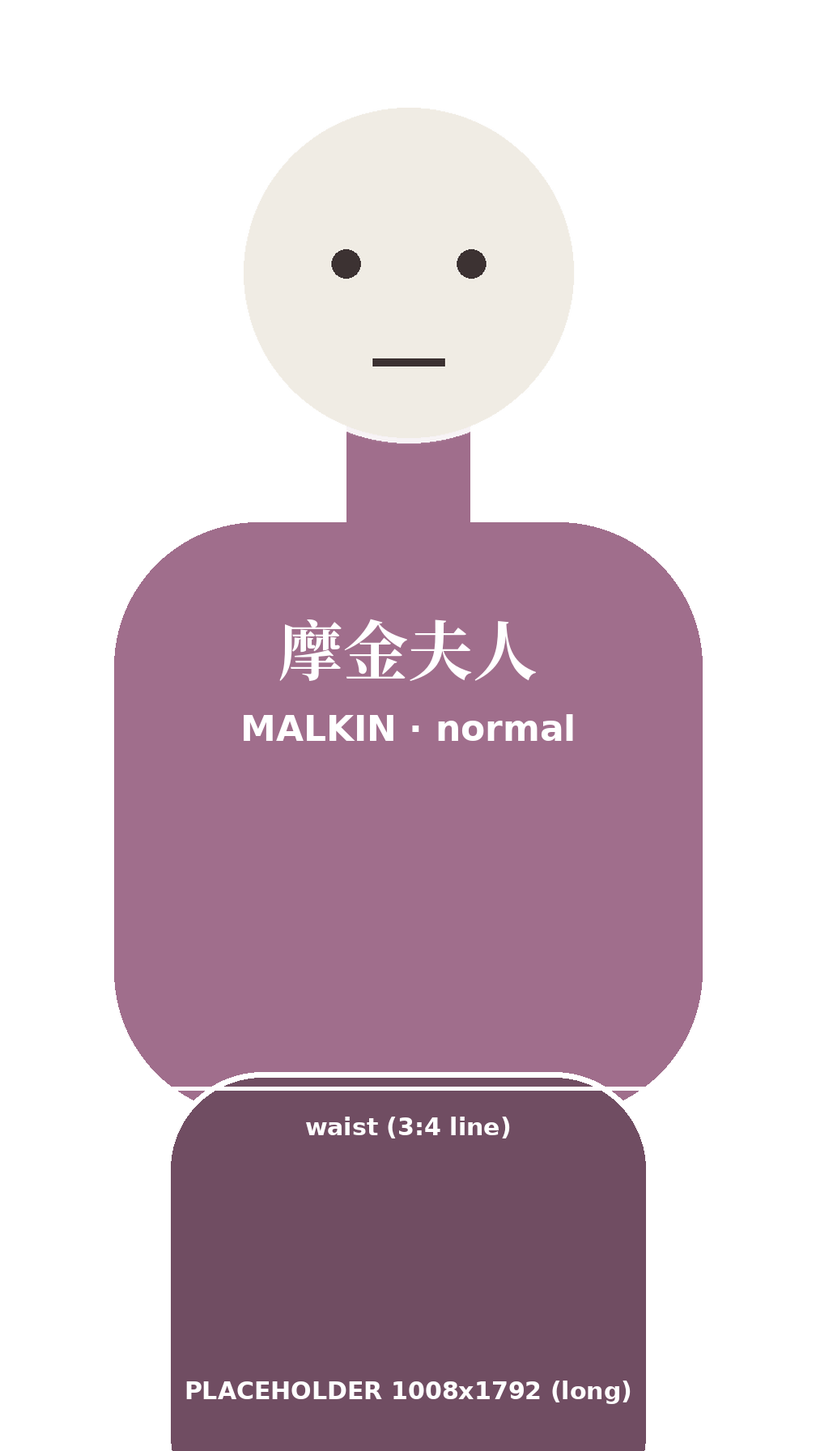
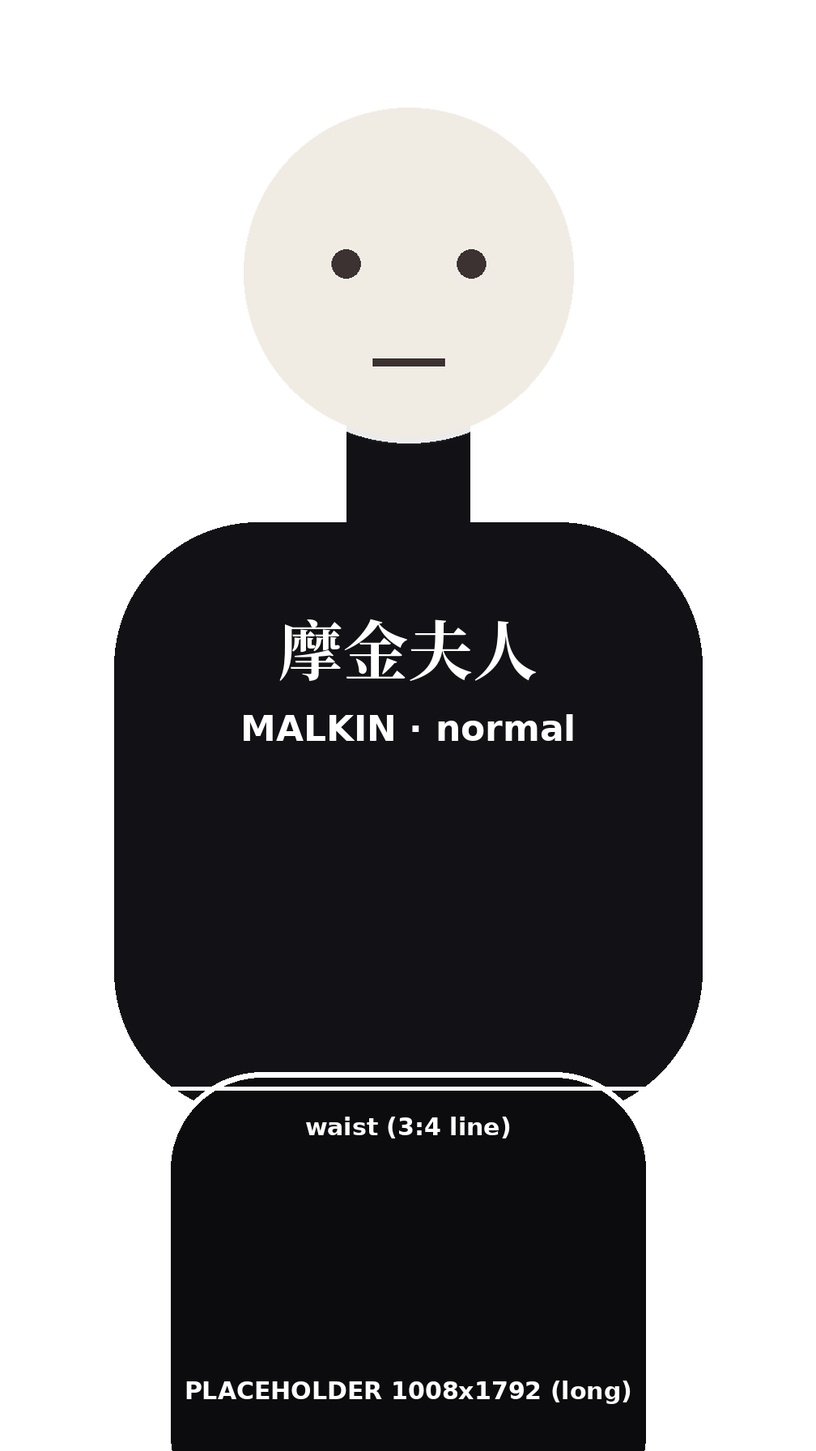
v0.4.1：立繪規劃改版（便服 casual、冬裝 winter、馬份取消黑袍、飛七立繪、黑影角色、規格 v2.0）與第一～六章小修
Claude-Session: https://claude.ai/code/session_01PBz3XvQT9DB7un91vn9J3W

diff --git a/story/story.js b/story/story.js
@@ -22,33 +22,34 @@ export const years = ["一年級", "二年級", "三年級", "四年級"];
 // 角色。id = 立繪資料夾名（assets/chara/<id>/<表情>.webp，規格見 docs/sprite_spec.md）與頭像檔名（assets/avatar/<id>.png）
 export const characters = {
   // outfits：有這一欄的角色立繪放在 assets/chara/<角色>/<服裝>/<表情>.webp，劇本用 @outfit 切換（跨場景、跨章節沿用）；outfit：預設服裝
-  draconia: { name: "馬份",     faces: ["normal", "happy", "sad", "angry", "disdain", "shy", "surprised", "smug", "panic", "cute", "cry"], outfits: ["noble", "school", "slytherin"], outfit: "noble" },   // noble 貴族服、school 黑袍（分院前）、slytherin 史萊哲林校服
-  ron:      { name: "榮恩",     faces: ["normal", "happy", "sad", "angry", "surprised", "disdain", "shy", "panic"], outfits: ["school", "gryffindor"], outfit: "school" },   // school 黑袍（分院前）、gryffindor 葛來分多校服
-  hermione: { name: "妙麗",     faces: ["normal", "happy", "sad", "angry", "shy", "surprised", "cry", "panic"], outfits: ["school", "gryffindor"], outfit: "school" },   // school 黑袍（分院前）、gryffindor 葛來分多校服
+  draconia: { name: "馬份",     faces: ["normal", "happy", "sad", "angry", "disdain", "shy", "surprised", "smug", "panic", "cute", "cry"], outfits: ["noble", "slytherin", "winter"], outfit: "noble" },   // noble 貴族服（入學前到分院前）、slytherin 史萊哲林校服（分院後）、winter 冬裝（史萊哲林校服＋頸巾，表情同校服）
+  ron:      { name: "榮恩",     faces: ["normal", "happy", "sad", "angry", "surprised", "disdain", "shy", "panic"], outfits: ["casual", "gryffindor", "winter"], outfit: "casual" },   // casual 便服（分院前）、gryffindor 葛來分多校服、winter 冬裝（校服＋頸巾）
+  hermione: { name: "妙麗",     faces: ["normal", "happy", "sad", "angry", "shy", "surprised", "cry", "panic"], outfits: ["casual", "gryffindor", "winter"], outfit: "casual" },   // casual 便服（分院前）、gryffindor 葛來分多校服、winter 冬裝（校服＋頸巾）
   hagrid:   { name: "海格",     faces: ["normal", "happy", "sad"], scale: 1 },   // scale：立繪縮放倍率（預設 1），高大的角色往上長（原 1.15，頭會被裁切，暫時改回 1）
   molly:    { name: "衛斯理太太", faces: ["normal"] },
-  ollivander: { name: "奧利凡德", faces: ["normal"] },
-  malkin:   { name: "摩金夫人", faces: ["normal"] },
-  crabbe:   { name: "克拉",     faces: ["normal"] },
-  goyle:    { name: "高爾",     faces: ["normal"] },
+  ollivander: { name: "奧利凡德", faces: ["normal"] },   // 黑影立繪
+  malkin:   { name: "摩金夫人", faces: ["normal"] },   // 黑影立繪
+  crabbe:   { name: "克拉",     faces: ["normal"], outfits: ["casual", "slytherin"], outfit: "casual" },   // casual 便服（分院前）、slytherin 史萊哲林校服
+  goyle:    { name: "高爾",     faces: ["normal"], outfits: ["casual", "slytherin"], outfit: "casual" },
   mcgonagall:  { name: "麥教授",   faces: ["normal"] },
   sorting_hat: { name: "分類帽",   faces: ["normal"] },
-  neville:     { name: "奈威",     faces: ["normal"] },
+  neville:     { name: "奈威",     faces: ["normal"], outfits: ["casual", "gryffindor"], outfit: "casual" },
   fred:        { name: "弗雷",     faces: ["normal"] },
   george:      { name: "喬治",     faces: ["normal"] },
   dumbledore:  { name: "鄧不利多", faces: ["normal"] },
   percy:       { name: "派西",     faces: ["normal"] },
   pansy:       { name: "潘西",     faces: ["normal", "happy", "angry", "smug", "disdain", "surprised"] },
   snape:       { name: "石內卜",   faces: ["normal", "angry"] },
-  hooch:       { name: "胡奇夫人", faces: ["normal"] },
+  hooch:       { name: "胡奇夫人", faces: ["normal"] },   // 黑影立繪
   wood:        { name: "木透",     faces: ["normal"] },
   flitwick:    { name: "孚立維教授", faces: ["normal"] },   // 黑影立繪
   quirrell:    { name: "奎若教授",   faces: ["normal"] },
+  filch:       { name: "飛七",     faces: ["normal"] },
   unknown:     { name: "？？？",     faces: ["normal"] }   // 刻意隱藏身分的說話者共用：無形黑影立繪（說話者寫 #？？？，用 @show unknown 上台）；頭像 assets/avatar/unknown.png
 };
 
 // 沒有立繪、但會說話的人（#名字 不會被當成打錯字）。值 = 頭像檔名
-export const speakers = { "哈利": "harry", "德思禮姨丈": "unknown", "飛七": "unknown" };
+export const speakers = { "哈利": "harry", "德思禮姨丈": "unknown" };
 
 // 圖鑑（圖檔放 assets/cg/<id>.webp，沒有圖時顯示佔位）
 // pos：CG 裁切焦點（"水平% 垂直%"，預設 "50% 50%"）。CG 是方圖，橫向會裁上下、直向會裁左右，焦點決定保留哪一塊；由立繪聊天室量好後填入

diff --git a/tools/make_placeholders.py b/tools/make_placeholders.py
@@ -30,7 +30,9 @@ COLORS = {"draconia": (120, 140, 190), "ron": (200, 110, 70), "hermione": (150, 
           "mcgonagall": (60, 110, 80), "sorting_hat": (110, 90, 60), "neville": (150, 120, 90), "fred": (200, 100, 60), "george": (190, 95, 65), "dumbledore": (140, 120, 170), "percy": (180, 105, 70), "pansy": (90, 130, 100), "snape": (40, 40, 48),
           "hooch": (150, 140, 100), "wood": (170, 80, 60),
           "flitwick": (18, 18, 22), "quirrell": (110, 70, 140),
-          "unknown": (10, 10, 12)}   # unknown ？？？ 共用黑影（佔位用近黑色）   # flitwick 黑影立繪（佔位用近黑色）
+          "unknown": (10, 10, 12), "filch": (100, 110, 90)}
+# 黑影立繪（佔位用近黑色）：flitwick、unknown（？？？共用）、malkin、ollivander、hooch
+for _k in ("malkin", "ollivander", "hooch"): COLORS[_k] = (18, 18, 22)
 
 def face_marks(d, face, ink):
     # 用簡單的眉、眼、嘴區分表情（佔位用，方便測試換表情）
@@ -77,11 +79,13 @@ def face_marks(d, face, ink):
         for s in (-1, 1): d.ellipse([CX + s * ex - er, ey - er, CX + s * ex + er, ey + er], fill=ink)
         d.line([CX - 40, HY + 100, CX + 40, HY + 100], fill=ink, width=9)
 
-OUTFIT_LABEL = {"noble": "貴族服", "school": "黑袍", "slytherin": "史萊哲林", "gryffindor": "葛來分多"}
+OUTFIT_LABEL = {"noble": "貴族服", "school": "黑袍", "casual": "便服", "slytherin": "史萊哲林", "gryffindor": "葛來分多", "winter": "冬裝"}
+WINTER_HOUSE = {"draconia": "slytherin"}   # 冬裝＝學院校服＋頸巾；沒列的角色是葛來分多
 OUTFIT_COLOR = {"school": (38, 38, 46), "slytherin": (34, 70, 52), "gryffindor": (110, 34, 34)}   # 黑袍、史萊哲林綠、葛來分多紅
 def chara(cid, name, face, color, outfit=None):
     p = os.path.join(ROOT, "chara", cid, *( [outfit] if outfit else [] ), face + ".webp")
     if outfit in OUTFIT_COLOR: color = OUTFIT_COLOR[outfit]
+    if outfit == "winter": color = OUTFIT_COLOR[WINTER_HOUSE.get(cid, "gryffindor")]
     if os.path.exists(p) and not REDO: return False
     os.makedirs(os.path.dirname(p), exist_ok=True)
     im = Image.new("RGBA", (W, H), (0, 0, 0, 0)); d = ImageDraw.Draw(im)
@@ -94,6 +98,9 @@ def chara(cid, name, face, color, outfit=None):
     d.line([CX - 300, WAIST, CX + 300, WAIST], fill=edge, width=5)
     # 脖子
     d.rectangle([CX - 76, chin - 50, CX + 76, chin + 126], fill=body)
+    if outfit == "winter":   # 頸巾：學院兩色條紋
+        c2 = (200, 200, 205, 255) if WINTER_HOUSE.get(cid) == "slytherin" else (210, 170, 60, 255)
+        for i in range(6): d.rectangle([CX - 160, chin + 20 + i * 24, CX + 160, chin + 44 + i * 24], fill=(body if i % 2 == 0 else c2))
     # 頭：先用基準尺寸畫好（含表情），再放大到頭高 HEAD_H 貼上
     hd = Image.new("RGBA", (W, H), (0, 0, 0, 0)); hdd = ImageDraw.Draw(hd)
     hdd.ellipse([CX - HEAD_R, HEAD_TOP, CX + HEAD_R, HEAD_TOP + 2 * HEAD_R], fill=(240, 236, 228, 255), outline=edge, width=6)

diff --git a/tools/make_avatars.py b/tools/make_avatars.py
@@ -14,7 +14,7 @@ def base(c1, c2):
 def ring(im):
     d = ImageDraw.Draw(im); d.ellipse([4,4,S*2-5,S*2-5], outline=(201,162,74,255), width=10)
 def save(im, name): im.resize((S,S), Image.LANCZOS).save(os.path.join(OUT, name+".png"))
-for name, ch, c1, c2 in (("draconia","D",(188,196,214),(96,106,138)), ("hagrid","海",(150,110,70),(80,52,30)), ("malkin","摩",(168,120,150),(96,60,90)), ("ron","榮",(214,128,84),(128,56,36)), ("molly","衛",(206,150,110),(130,84,60)), ("hermione","妙",(176,128,92),(100,64,40)), ("ollivander","奧",(150,150,160),(70,70,84)), ("crabbe","克",(130,150,130),(60,78,60)), ("goyle","高",(150,130,112),(80,64,52)), ("mcgonagall","麥",(110,160,120),(40,80,56)), ("sorting_hat","帽",(160,130,90),(84,64,40)), ("neville","奈",(176,150,120),(96,76,56)), ("fred","弗",(220,120,80),(130,56,34)), ("george","喬",(214,116,84),(124,54,36)), ("dumbledore","鄧",(170,150,200),(84,70,120)), ("percy","派",(206,130,90),(120,64,40)), ("pansy","潘",(120,170,130),(50,90,60)), ("snape","石",(90,90,100),(24,24,30)), ("hooch","胡",(170,160,120),(90,80,50)), ("wood","木",(200,110,80),(110,50,36)), ("flitwick","孚",(70,70,80),(14,14,18)), ("quirrell","奎",(150,110,180),(70,40,100))):
+for name, ch, c1, c2 in (("draconia","D",(188,196,214),(96,106,138)), ("hagrid","海",(150,110,70),(80,52,30)), ("malkin","摩",(168,120,150),(96,60,90)), ("ron","榮",(214,128,84),(128,56,36)), ("molly","衛",(206,150,110),(130,84,60)), ("hermione","妙",(176,128,92),(100,64,40)), ("ollivander","奧",(150,150,160),(70,70,84)), ("crabbe","克",(130,150,130),(60,78,60)), ("goyle","高",(150,130,112),(80,64,52)), ("mcgonagall","麥",(110,160,120),(40,80,56)), ("sorting_hat","帽",(160,130,90),(84,64,40)), ("neville","奈",(176,150,120),(96,76,56)), ("fred","弗",(220,120,80),(130,56,34)), ("george","喬",(214,116,84),(124,54,36)), ("dumbledore","鄧",(170,150,200),(84,70,120)), ("percy","派",(206,130,90),(120,64,40)), ("pansy","潘",(120,170,130),(50,90,60)), ("snape","石",(90,90,100),(24,24,30)), ("hooch","胡",(170,160,120),(90,80,50)), ("wood","木",(200,110,80),(110,50,36)), ("flitwick","孚",(70,70,80),(14,14,18)), ("quirrell","奎",(150,110,180),(70,40,100)), ("filch","飛",(150,165,140),(70,82,62))):
     if os.path.exists(os.path.join(OUT, name + ".png")): continue      # 已有的頭像（含你換上的正式圖）不覆蓋
     im = base(c1, c2); d = ImageDraw.Draw(im)
     f = ImageFont.truetype(FONT, 300, index=3); b = d.textbbox((0,0), ch, font=f)

diff --git a/docs/characters.md b/docs/characters.md
@@ -15,21 +15,23 @@
 
 | 角色 | 引擎代號 | 表情 |
 |---|---|---|
-| 馬份 | draconia | normal、happy、sad、angry、disdain、shy、surprised、smug、panic、cute、cry（貴族服、黑袍、史萊哲林校服三套，共 33 張；原本的 angry 圖改為 disdain，新的 angry 圖待補） |
-| 榮恩 | ron | normal、happy、sad、angry、surprised、disdain、shy、panic（黑袍、葛來分多校服兩套，共 16 張；disdain、shy、panic 第五章新增，待補圖） |
-| 妙麗 | hermione | normal、happy、sad、angry、shy、surprised、cry、panic（黑袍、葛來分多校服兩套，共 16 張；cry、panic 第六章新增，待補圖） |
+| 馬份 | draconia | normal、happy、sad、angry、disdain、shy、surprised、smug、panic、cute、cry（貴族服、史萊哲林校服、冬裝三套，共 33 張） |
+| 榮恩 | ron | normal、happy、sad、angry、surprised、disdain、shy、panic（便服、葛來分多校服、冬裝三套，共 24 張） |
+| 妙麗 | hermione | normal、happy、sad、angry、shy、surprised、cry、panic（便服、葛來分多校服、冬裝三套，共 24 張） |
 | 海格 | hagrid | normal、happy、sad |
 | 衛斯理太太 | molly | normal |
-| 奧利凡德 | ollivander | normal |
-| 摩金夫人 | malkin | normal |
-| 克拉 | crabbe | normal |
-| 高爾 | goyle | normal |
+| 奧利凡德 | ollivander | normal（黑影立繪） |
+| 摩金夫人 | malkin | normal（黑影立繪） |
+| 克拉 | crabbe | normal（便服、史萊哲林校服兩套） |
+| 高爾 | goyle | normal（便服、史萊哲林校服兩套） |
 | 潘西 | pansy | normal、happy、angry、smug、disdain、surprised（disdain、surprised 第四、五章新增，待補圖） |
 | 石內卜 | snape | normal、angry |
-| 胡奇夫人 | hooch | normal |
+| 胡奇夫人 | hooch | normal（黑影立繪） |
 | 孚立維教授 | flitwick | normal（黑影立繪） |
 | 奎若教授 | quirrell | normal |
 | 木透 | wood | normal |
+| 奈威 | neville | normal（便服、葛來分多校服兩套） |
+| 飛七 | filch | normal |
 | ？？？ | unknown | normal（無形黑影立繪，所有刻意隱藏身分的說話者共用） |
 | 哈利 | （無立繪） | 第一人稱，只有對話紀錄頭像 |
 
@@ -56,11 +58,11 @@
 - **身份**：一年級新生，純血馬份家獨生女。父親魯休斯，母親水仙。學院：史萊哲林（第二章分院）。
 - **外觀**：淺金色長髮（劇本一律寫「淺金色」）；灰色眼睛，形容為「像冬天結冰的湖面」；膚色白皙；臉型尖細；身材纖細；常抬著下巴；手指細長，指甲修得整齊。
   - 生圖描述（英文）：*11-year-old girl, long pale blonde hair, cold grey eyes, pale skin, sharp delicate face, slender, proud posture with chin raised, anime visual novel style*【髮飾待定】
-- **服裝**（立繪分三套，每套都有 10 個表情）：
-  - **貴族服**（noble）：入學前的便服。第一章斜角巷全程穿這套。款式【待定】。生圖時在描述後加：*elegant aristocratic dress, dark green and silver*【顏色待定】
-  - **黑袍**（school）：霍格華茲黑袍，分院前沒有學院徽章，但她自己戴純綠領帶和銀蛇領帶夾。第一章列車開始到第二章分院前穿這套。
+- **服裝**（立繪分三套，每套 11 個表情）：
+  - **貴族服**（noble）：入學前的便服。第一章全程（斜角巷、車站、列車、活米村）到第二章分院前都穿這套，分院後才換校服。款式【待定】。生圖時在描述後加：*elegant aristocratic dress, dark green and silver*【顏色待定】
   - **史萊哲林校服**（slytherin）：分院後換穿，綠色內襯、綠銀斜紋領帶、學院徽章。
-  - 圖檔路徑：`assets/chara/draconia/<服裝>/<表情>.webp`；劇本用 `@outfit draconia noble`／`school`／`slytherin` 切換
+  - **冬裝**（winter）：史萊哲林校服＋綠銀頸巾、黑色皮手套。冬天場景使用（第七章起）。
+  - 圖檔路徑：`assets/chara/draconia/<服裝>/<表情>.webp`；劇本用 `@outfit draconia noble`／`slytherin`／`winter` 切換
 - **性格**：以原著跩哥為底，調整成傲嬌。高傲、看不起「低等」的人，嘴上刻薄，心裡在意。被說中心事或被救時會結巴（「你、你……」「誰、誰要你……」），死不道謝。一年級定位是「口是心非的對手」，隨劇情逐漸軟化。
 - **說話習慣**：叫哈利「波特」；常用「哼」；叫榮恩「衛斯理」或帶貶意的稱呼。
 - **隨從**：克拉、高爾。
@@ -77,18 +79,26 @@
 
 ### 榮恩．衛斯理（ron）
 - **身份**：一年級新生，衛斯理家么兒（男生中最小）。
-- **外觀**：紅髮、雀斑、藍眼、個子高瘦、長鼻子；袍子是舊的，外套打過補丁。
+- **外觀**：紅髮、雀斑、藍眼、個子高瘦、長鼻子。整體很不羈：領口敞開、恤衫下襬外露、常常雙手插袋。兩套服裝都是舊袍，打過補丁。立繪的鼻子是乾淨的（不畫污漬）。
   - 生圖描述：*11-year-old boy, red hair, freckles, blue eyes, tall and lanky, long nose, worn hand-me-down robes*
-- **服裝**：黑袍（school，分院前）、葛來分多校服（gryffindor，第二章分院後換上）。劇本用 `@outfit ron gryffindor` 切換。
+- **服裝**：
+  - **便服**（casual，分院前）：衛斯理太太織的棕色背心，沒打領帶。
+  - **葛來分多校服**（gryffindor，第二章分院後換上）：紅金條紋的灰背心，領帶打得鬆鬆垮垮。
+  - **冬裝**（winter）：葛來分多校服＋紅金頸巾。冬天場景使用。
+  - 劇本用 `@outfit ron casual`／`gryffindor`／`winter` 切換。
 - **性格**：直率、愛吃、自卑家裡窮，被嘲笑時耳朵會變紅。
 - **表情補充**：disdain 用在瞧不起馬份、對哈利的決定翻白眼時；shy 用在出糗、難為情（耳朵變紅）時；panic 用在真的嚇到時（第五章被三頭犬追）。
 - **已確定的設定**：第一章選擇 6 選 A（`f.c1_hand=1`）時，哈利說只是不想跟她起衝突，榮恩悶悶不樂了一陣，不到十分鐘又湊過來聊天；選 B 時榮恩道謝，抱怨她沒禮貌；選 C 時榮恩稱讚哈利「太帥了」。選擇 7 若坐上馬份的船，榮恩會嘀咕一句，被妙麗推上另一條船。
 
 ### 妙麗．格蘭傑（hermione）
 - **身份**：一年級新生，麻瓜出身。
-- **外觀**：蓬鬆的棕色長髮、棕色眼睛、門牙略大（原著設定，是否保留【待定】）。
+- **外觀**：蓬鬆但整齊的棕色長髮、棕色眼睛、門牙略大（原著設定，是否保留【待定】）。端莊、有書卷味，立繪常抱著兩本書。
   - 生圖描述：*11-year-old girl, very bushy brown hair, brown eyes, bright and earnest expression, Hogwarts robes*
-- **服裝**：黑袍（school，分院前）、葛來分多校服（gryffindor，第二章分院後換上）。劇本用 `@outfit hermione gryffindor` 切換。
+- **服裝**：
+  - **便服**（casual，分院前）：灰背心。
+  - **葛來分多校服**（gryffindor，第二章分院後換上）：紅金條紋的灰背心。
+  - **冬裝**（winter）：葛來分多校服＋紅金頸巾。冬天場景使用。
+  - 劇本用 `@outfit hermione casual`／`gryffindor`／`winter` 切換。
 - **性格**：聰明、認真、愛說教、讀過很多書；一開始有點不討喜，其實熱心。
 - **表情補充**：cry 用在被榮恩的話傷到、哭著跑走時（第六章）；panic 用在被山怪逼到牆角時。
 - **已確定的設定**：第一章在車廂幫奈威找蟾蜍（`f.c1_toad`）。第六章山怪事件後成為哈利、榮恩的朋友；路線 A 被馬份保護，向她道謝，但明說不認同純血主義。
@@ -107,19 +117,19 @@
 - 外觀：矮胖、紅髮、慈祥。在國王十字車站教哈利穿過柱子。
 
 ### 奧利凡德（ollivander）
-- 魔杖店老闆。年老，有一雙蒼白的銀色眼睛，白髮稀疏，說話慢。口頭禪是「有趣」「奇妙」。
+- 魔杖店老闆。年老，有一雙蒼白的銀色眼睛，白髮稀疏，說話慢。口頭禪是「有趣」「奇妙」。**立繪是黑影**（只有輪廓的剪影）。
 
 ### 摩金夫人（malkin）
-- 長袍店老闆娘。矮胖，笑容可掬，穿淡紫色衣服。叫客人「親愛的」。
+- 長袍店老闆娘。矮胖，笑容可掬，穿淡紫色衣服。叫客人「親愛的」。**立繪是黑影**（只有輪廓的剪影）。
 
 ### 克拉（crabbe）、高爾（goyle）
 - **本作改為女生**，沿用姓氏，不另取名字。體型**不寫壯碩**。
 - 馬份的隨從，兩家從祖父那一輩就認識。話極少，大多只回「嗯」。
-- 克拉：黑髮，稍微過肩，髮尾微捲。高爾：黑髮中分，總是在吃東西（第一章在船上啃蛋糕）。立繪只有 normal，穿黑袍。
+- 克拉：黑髮，稍微過肩，髮尾微捲。高爾：黑髮中分，總是在吃東西（第一章在船上啃蛋糕）。立繪只有 normal，兩套服裝：便服（casual，分院前）、史萊哲林校服（slytherin，分院後）。劇本用 `@outfit crabbe slytherin`／`@outfit goyle slytherin` 切換。
 - 後續影響：二年級喝變身水變成克拉和高爾的情節，需要另外設計。
 
 ### 潘西．帕金森（pansy）
-- 史萊哲林一年級女生，馬份的朋友。短髮、圓臉，笑起來眼睛瞇成一條線。
+- 史萊哲林一年級女生，馬份的朋友。及肩的深褐色直髮、齊瀏海、圓臉，笑起來眼睛瞇成一條線。
 - 叫馬份「妮亞」（朋友裡只有她這樣叫）。愛調侃馬份和哈利的互動，也會嘲笑葛來分多。
 - 表情 normal、happy、angry、smug、disdain、surprised：登場時 normal，調侃人時換 smug；disdain 是冷眼旁觀、意味深長地打量人（第五章早餐）；surprised 是愣住（第四章看見馬份沒在笑）。第三章初登場。
 - **暗線**：第四章偷聽到午夜決鬥，第五章向飛七告密（之後章節揭曉）。表面是馬份的朋友，覺得馬份「跟波特走得太近」。
@@ -130,7 +140,7 @@
 - 主線角色，表情 normal、angry：平常 normal，刁難、責罵哈利時用 angry。
 
 ### 胡奇夫人（hooch）
-- 飛行課老師。灰色短髮，一雙像老鷹一樣的黃眼睛。說話簡短、命令式。第四章初登場，立繪只有 normal。
+- 飛行課老師。灰色短髮，一雙像老鷹一樣的黃眼睛。說話簡短、命令式。第四章初登場，立繪只有 normal，**立繪是黑影**（只有輪廓的剪影）。
 
 ### 木透（wood）
 - 奧利佛．木透，葛來分多五年級生，魁地奇隊隊長。高大，談到魁地奇就兩眼發亮。名牌用「木透」。第四章初登場，立繪只有 normal。
@@ -143,15 +153,16 @@
 - 黑魔法防禦術教授，戴紫色頭巾，說話結結巴巴，教室裡全是大蒜味。第六章衝進大廳喊「山怪在地窖裡」。立繪只有 normal。
 
 ### ？？？（unknown）
-- 刻意隱藏身分的說話者共用的角色：名牌「？？？」，立繪是無形的黑影，表情只有 normal，頭像用 unknown。
+- 刻意隱藏身分的說話者共用的角色：名牌「？？？」，立繪是沒有固定形狀的黑影，表情只有 normal，頭像用 unknown。
 - 劇本寫 `#？？？`，需要讓黑影上台時用 `@show unknown`／`@hide unknown`。不要寫 `#？？？|角色代號`，否則台上會亮起該角色本人的立繪，提早露出身分。
 - 第五章樓梯轉角那聲「……呵。」初登場。
 
-### 飛七（無立繪）
-- 學校管理員，養了一隻叫拿樂絲太太的貓。第五章只出聲音、不出立繪（名牌「飛七」，頭像用 unknown）。
+### 飛七（filch）
+- 學校管理員，養了一隻叫拿樂絲太太的貓。立繪只有 normal（名牌「飛七」）。第五章只出聲音，沒有上台。
 
 ### 奈威．隆巴頓（neville）
-- 第二章起有立繪（normal）。蟾蜍常常不見；第三章在魔藥課弄熔了大釜。
+- 立繪只有 normal，兩套服裝：便服（casual，分院前）、葛來分多校服（gryffindor，第二章分院後換上）。劇本用 `@outfit neville gryffindor` 切換。
+- 蟾蜍常常不見；第三章在魔藥課弄熔了大釜。
 
 ---
 

diff --git a/docs/sprite_spec.md b/docs/sprite_spec.md
@@ -1,7 +1,7 @@
-# 立繪規格（《鉑金色的馬份｜蛇與獅之歌》）
+# 立繪規格 v2.0（《鉑金色的馬份｜蛇與獅之歌》）
 
 用途：生成或繪製正式立繪時照這份做。角色與表情清單見 `docs/characters.md`，引擎登記在 `story/story.js`。
-立繪改為**長立繪（9:16）**。舊的 3:4 立繪（1200×1600，含現有佔位圖）引擎照樣能用，兩種可以混用，換上正式圖時直接用同樣的檔名覆蓋即可。
+立繪是 **9:16 膝上立繪**（v2.0）。比例跟之前的 1008×1792 長立繪完全相同，引擎不用改；舊的 3:4 立繪（1200×1600）與現有佔位圖（1008×1792）也照樣能用，可以混用，換上正式圖時直接用同樣的檔名覆蓋即可。
 
 ---
 
@@ -9,36 +9,37 @@
 
 | 項目 | 規格 |
 |---|---|
-| 畫布 | **1008 × 1792**（寬 × 高，9:16，Grok Imagine 的輸出尺寸，不用放大）。同一角色的所有表情、服裝都用同一個尺寸 |
+| 畫布 | **1200 × 2134**（寬 × 高，9:16）。同一角色的所有表情、服裝都用同一個尺寸（1008×1792 的舊圖比例相同，也能用） |
 | 格式 | **WebP**，**透明背景**（有損壓縮、品質約 90 即可；PNG 原圖交給引擎聊天室轉檔也可以） |
-| 檔名 | `assets/chara/<角色代號>/<表情>.webp`；有多套服裝的角色是 `assets/chara/<角色代號>/<服裝>/<表情>.webp`，例如 `assets/chara/draconia/school/shy.webp` |
+| 檔名 | `assets/chara/<角色代號>/<表情>.webp`；有多套服裝的角色是 `assets/chara/<角色代號>/<服裝>/<表情>.webp`，例如 `assets/chara/draconia/slytherin/shy.webp` |
 | 代號與表情 | 一律小寫英文，與 `story/story.js` 的 `faces` 相同 |
 
 ## 二、取景（長立繪）
 
 ```
 ┌──────────────┐  ← 畫布上緣
-│   （留白）   │  頭頂上方留約 126px（約 7%），不要讓頭頂貼邊
-│     ●●●      │  ← 頭部：高約 420px（約 23%，±15），左右置中，下巴約 y=546
+│   （留白）   │  頭頂上方留約 150px（約 7%），不要讓頭頂貼邊
+│     ●●●      │  ← 頭部：高約 500px（約 23%，±20），左右置中，下巴約 y=650
 │      ▌       │
-│   ▛▀▀▀▀▜    │  ← 肩膀約在 y=640 附近
+│   ▛▀▀▀▀▜    │  ← 肩膀約在 y=760 附近
 │   ▌    ▐    │
-│   ▌    ▐    │  ← 約 y=1344：腰（上方這一段 = 舊規格的 3:4 半身）
+│   ▌    ▐    │  ← 約 y=1600：腰（上方這一段 = 舊規格的 3:4 半身）
 │   ▌    ▐    │
-│   ▌    ▐    │  ← 下半身（大腿左右）：平常藏在對話框後面或超出畫面
+│   ▌    ▐    │  ← 下半身：小孩畫到膝上；大人切在臀部附近
 └──────────────┘  ← 畫布下緣：平切
 ```
 
-- **從頭頂畫到大腿左右**，底邊直接平切到畫布下緣。
+- **膝上立繪**：小孩從頭頂畫到膝蓋上方，底邊直接平切到畫布下緣。
+- **大人頭一樣大**：頭頂、頭高照同一個比例，所以大人的身體比較長，下緣大約切在臀部附近。
 - **角色左右置中**。手、魔杖、頭髮可以超出身體，但不要超出畫布。
 - 畫面上通常只露出頭到胸口，**表情與上半身動作是重點**。下半身大多被對話框遮住，只有直向單人、三角排前排時會露出一點到畫面底緣，手、長袍下擺的細節要求可以放寬，但不要明顯走樣。
-- 引擎以「上方 3:4 段」（頭頂到 y≈1344）排位，所以頭部位置與大小必須照上面的比例，下半身畫多畫少不影響排位。
+- 引擎以「上方 3:4 段」（頭頂到 y≈1600）排位，所以頭部位置與大小必須照上面的比例，下半身畫多畫少不影響排位。
 
 ## 三、比例一致（最重要）
 
 引擎是用「整張畫布」來縮放的，所以：
 
-- **所有角色的頭部大小與位置要大致相同**（頭頂約在高度 7%（y≈126），頭高約 23%（≈420px），下巴約 y≈546）。不要因為某個角色比較高大，就在畫布裡把他畫大。舊規格 1200×1600 的比例相同（頭頂 y≈150、頭高 ≈500、下巴 y≈650）。
+- **所有角色的頭部大小與位置要大致相同**（頭頂約在高度 7%（y≈150），頭高約 23%（≈500px），下巴約 y≈650）。不要因為某個角色比較高大，就在畫布裡把他畫大。1008×1792 的舊長立繪比例相同（頭頂 y≈126、頭高 ≈420、下巴 y≈546）；舊 3:4 規格 1200×1600 的頭部數字也相同。
 - **身高差交給引擎處理**：在 `story/story.js` 給角色加 `scale`，例如 `scale: 1.15`。放大時會往上長，頭比別人高。（海格目前暫設 1，因為 1.15 在橫向時頭頂會被裁切；正式圖到了再調整。）
 - **同一角色的不同表情**：位置、大小、姿勢、服裝都要一致，只改臉（和必要的手勢）。換表情時才不會跳動。
 - **同一角色的不同服裝**：頭部位置與大小也要一致，只換衣服。換裝時才不會跳動。
@@ -46,7 +47,14 @@
 ## 四、生成建議（例如用 ChatGPT）
 
 - 先做出每個角色的 **normal**，滿意後，以它為底圖修改其他表情（例如「保持構圖、服裝、大小完全不變，只把表情改成害羞，臉頰微紅」）。
-- 每次都指定：從頭頂到大腿、正面或微側、透明背景、9:16（1008×1792）、頭頂留白約 7%、頭部約佔畫面高度 23%、角色置中。
+- 每次都指定：膝上（大人到臀部）、正面或微側、9:16（1200×2134）、頭頂留白約 7%、頭部約佔畫面高度 23%、角色置中。
+- **生成底色**（之後去背用；不要用亮綠或洋紅，會在頭髮、衣服邊緣留下色邊）：
+  | 角色 | 底色 |
+  |---|---|
+  | 一般角色 | 灰藍 `#6E7B8B` |
+  | 飛七 | 灰綠 `#7D8C74`（避免跟他的灰色衣服混在一起） |
+  | 黑影立繪（孚立維教授、摩金夫人、奧利凡德、胡奇夫人）與 ？？？ | 暖沙色 `#A39684` |
+- **黑影立繪**：只有輪廓的剪影，看得出體型與標誌性的輪廓（帽子、頭髮、魔杖），沒有五官與細節；？？？（unknown）是沒有固定形狀的黑影，所有隱藏身分的角色共用。
 - 生成後檢查：頭頂位置、頭的大小是否跟其他角色差不多；背景是否真的透明（不是白底）。
 - 畫風、線條、上色方式全角色統一。
 
@@ -54,5 +62,5 @@
 
 - 以上方 3:4 段（頭頂到腰）對齊排位，下半身往下延伸：橫向藏在對話框後面、超出畫面下緣；直向單人時剛好到畫面底緣。
 - 1 人置中；2 人左右；3 人時橫向左中右，**直向三角排**（左右兩人在前、貼到畫面底緣，劇本裡排在中間的人站後排，頭部夾在兩人之間，三人一樣大）。說話的人以外會稍微變暗。
-- 換表情是立刻切換，所以同角色各表情的輪廓要對齊。
+- 換表情是 0.15 秒交叉淡化，所以同角色各表情的輪廓要對齊。
 - 存檔縮圖也會畫出立繪，用的是同一套位置與大小（一律用橫向版面）。

diff --git a/README.md b/README.md
@@ -1,4 +1,4 @@
-# 《鉑金色的馬份》｜蛇與獅之歌　v0.4.0
+# 《鉑金色的馬份》｜蛇與獅之歌　v0.4.1
 
 哈利波特同人視覺小說。網頁版，手機、電腦都能玩，直向／橫向自動切換。
 
@@ -15,7 +15,7 @@
 | `engine/` | 引擎程式：`parser.js` 劇本解析、`player.js` 播放與存檔、`stage.js` 背景立繪、`ui.js` 對話框與輸入、`screens.js` 各畫面、`audio.js` 音效 |
 | `engine/style/` | 外觀：`theme.css` 對話框、名牌、選項、工具列（墨綠＋金框）；`screens.css` 各畫面與羊皮紙面板 |
 | `assets/bg/<名稱>.webp` | 背景（等比例裁切填滿，重要內容放中央） |
-| `assets/chara/<角色>/<表情>.webp` | 立繪（長立繪 1008×1792 透明 WebP，舊的 1200×1600 半身也能用，規格見 `docs/sprite_spec.md`；目前全部是長立繪佔位圖，正式圖之後一次換上）。有服裝的角色（目前只有馬份）是 `assets/chara/<角色>/<服裝>/<表情>.webp`，例如 `draconia/noble/`、`draconia/school/` |
+| `assets/chara/<角色>/<表情>.webp` | 立繪（長立繪 1008×1792 透明 WebP，舊的 1200×1600 半身也能用，規格見 `docs/sprite_spec.md`；目前全部是長立繪佔位圖，正式圖之後一次換上）。有服裝的角色（目前只有馬份）是 `assets/chara/<角色>/<服裝>/<表情>.webp`，例如 `draconia/noble/`、`draconia/slytherin/` |
 | `assets/avatar/<角色>.png` | 紀錄頭像 |
 | `assets/cg/<id>.webp` | CG：劇情中顯示（`@showcg`）與圖鑑共用；沒有圖時顯示佔位 |
 | `assets/bgm/`、`assets/sound/`、`assets/voice/` | 音樂、效果音、語音（`.mp3`，目前還沒有） |
@@ -38,6 +38,7 @@
 - 設定（同一頁）：文字速度、自動速度、只略過已讀、三種音量（每 1 點調整）
 
 ## 版本
+- **v0.4.1**：立繪規劃改版：馬份取消黑袍（分院前穿貴族服）；榮恩、妙麗的分院前服裝改名為便服（casual），三人新增冬裝（winter，學院校服＋頸巾）；奈威、克拉、高爾改為有便服與學院校服兩套；新增飛七立繪（filch）；摩金夫人、奧利凡德、胡奇夫人改為黑影立繪；立繪規格升為 v2.0（1200×2134 膝上立繪，比例不變）；文件同步。第一～六章小修：CG #3 與第一章服裝描寫、活米村換長袍的旁白、潘西改為及肩直髮、第五章飛七上台，並補上奈威、克拉、高爾的換裝。
 - **v0.4.0**：第一～六章小修：羈絆數值重新分配（一般選項 ±1、關鍵選擇 +2～+5，第六章分路門檻提高到 65）、海德薇改為皇冠譯名「嘿美」、第一章路線 B 魔杖店補上店內描寫、第三章與第四章部分對白修改；大廳背景分成白天（great_hall_day）與晚上（great_hall_night）兩張（佔位），舊的 great_hall 移除。
 - **v0.3.9**：面板元件改版：按鈕改成長六角形（尖端金菱釘、內縮細線、紙紋與磨舊的邊）；設定拉條改成魔杖軌道＋黃銅菱形鈕（鑲墨綠寶石）；儲思盆章節格、存檔格改成削角長牌，章號放進六角小籤，「已讀」改成墨綠蠟封；工具列存檔／讀檔換新圖示，所有圖示下面加小字（對話框高度不變）；新章節過場加上金色角飾內框、星芒、由中間畫開的裝飾線、飄動的金色微塵；圖鑑一般 CG 擴充為 60 格（10 頁），頁碼旁加頁數小菱形。新增 ？？？ 共用黑影角色 unknown。
 - **v0.3.8**：新增第六章〈萬聖節的山怪〉；新角色孚立維教授（黑影立繪）、奎若教授；妙麗新增 cry、panic；圖鑑一般 CG 擴充為 36 格，新增 4 張（夕陽下的光輪、並肩的晚霞、山怪背上、護在身後的人）；新背景魁地奇球場、符咒學教室、女生廁所（佔位）。對話框移除毛玻璃模糊；直向背景模糊調低（2px → 1.4px），與橫向觀感一致；CG 顯示中直接換另一張 CG 時，新圖疊在舊圖上淡入，不再先露出背景；換表情加上 0.15 秒交叉淡化。

diff --git a/docs/writing_rules.md b/docs/writing_rules.md
@@ -65,13 +65,15 @@
 
 | 角色 | 立繪表情 |
 |---|---|
-| 馬份 | normal、happy、sad、angry、disdain、shy、surprised、smug、panic、cute、cry（貴族服、黑袍、史萊哲林校服三套都有） |
-| 榮恩 | normal、happy、sad、angry、surprised、disdain、shy、panic（黑袍、葛來分多校服兩套都有） |
-| 妙麗 | normal、happy、sad、angry、shy、surprised、cry、panic（黑袍、葛來分多校服兩套都有） |
+| 馬份 | normal、happy、sad、angry、disdain、shy、surprised、smug、panic、cute、cry（貴族服、史萊哲林校服、冬裝三套都有） |
+| 榮恩 | normal、happy、sad、angry、surprised、disdain、shy、panic（便服、葛來分多校服、冬裝三套都有） |
+| 妙麗 | normal、happy、sad、angry、shy、surprised、cry、panic（便服、葛來分多校服、冬裝三套都有） |
 | 海格 | normal、happy、sad |
 | 潘西 | normal、happy、angry、smug、disdain、surprised |
 | 石內卜 | normal、angry |
-| 衛斯理太太、奧利凡德、摩金夫人、克拉、高爾、胡奇夫人、木透、孚立維教授（黑影）、奎若教授 | normal |
+| 奈威（便服、葛來分多校服）、克拉、高爾（便服、史萊哲林校服） | normal |
+| 衛斯理太太、木透、奎若教授、飛七 | normal |
+| 孚立維教授、摩金夫人、奧利凡德、胡奇夫人（黑影立繪） | normal |
 | ？？？（unknown，刻意隱藏身分的人共用的無形黑影） | normal |
 | 哈利 | 無立繪（第一人稱） |
 
@@ -80,7 +82,7 @@
   - panic 和 surprised 的分別：surprised 是愣住，panic 是害怕。**panic 只用在真的遇到害怕的事物時**；一般的驚訝用 surprised，慌張害羞用 shy。
   - cute 一年級少用（她還是口是心非的對手），羈絆高時再多用；cry 留給真正的重頭戲。
 - 馬份的髮色一律寫「淺金色」。
-- **服裝**：馬份有三套服裝：貴族服（入學前的便服）、黑袍（分院前的校服）、史萊哲林校服；榮恩、妙麗有兩套：黑袍、葛來分多校服。換裝時在草稿標 `［馬份 服裝 黑袍］`，或在登場時寫 `［馬份 登場，服裝 貴族服，表情 normal］`；之後一直沿用，直到下一次換裝。入學前一律貴族服，搭上霍格華茲特快車起穿黑袍，分院後換學院校服。
+- **服裝**：馬份有三套：貴族服（分院前）、史萊哲林校服、冬裝；榮恩、妙麗有三套：便服（分院前）、葛來分多校服、冬裝；奈威、克拉、高爾有兩套：便服（分院前）、學院校服。冬裝＝學院校服加頸巾，冬天場景使用。換裝時在草稿標 `［馬份 服裝 冬裝］`，或在登場時寫 `［馬份 登場，服裝 貴族服，表情 normal］`；之後一直沿用，直到下一次換裝。分院前一律穿貴族服或便服，分院後換學院校服。
   - 分院之後的章節，三人一律穿學院校服，不必再標。
 - 新角色直接寫名字即可，引擎聊天室會補登記與佔位圖，圖由 Lawch 另外生成。
 - 同一個畫面最多三個立繪（左、中、右）。直向畫面三人時會變成三角排：排在中間的那位站後排（依登場順序由左到右排，`@show … left` 會排到最左），所以想讓誰站後排，就讓他排在中間。

diff --git a/story/README.md b/story/README.md
@@ -36,7 +36,7 @@
 | `@bg 名稱 [fade=800]` | 換背景（淡入毫秒） |
 | `@show 角色 [表情] [left] [fade=300]` | 角色登場（1 人置中、2 人左右、3 人左中右，直向 3 人時中間那位站後排成三角排；`left` 排到最左） |
 | `@face 角色 表情` | 換表情 |
-| `@outfit 角色 服裝` | 換裝（例：`@outfit draconia school`）。之後的 `@show`／`@face` 都用這套，跨場景、跨章節沿用到下一次 `@outfit`。角色在台上時立刻換圖，保留表情與位置。只有 `story.js` 有 `outfits` 的角色能用 |
+| `@outfit 角色 服裝` | 換裝（例：`@outfit draconia slytherin`）。之後的 `@show`／`@face` 都用這套，跨場景、跨章節沿用到下一次 `@outfit`。角色在台上時立刻換圖，保留表情與位置。只有 `story.js` 有 `outfits` 的角色能用 |
 | `@hide 角色 [fade=300]`、`@hideall` | 退場 |
 | `@wait 毫秒` | 停頓 |
 | `@bgm 名稱 [fade=1000]`、`@bgm stop` | 背景音樂（assets/bgm/名稱.mp3） |
